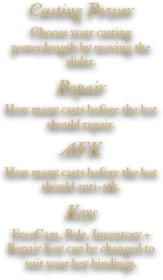
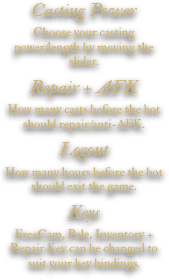
button hover, logout input, bait visual improved

diff --git a/fishingbot.py b/fishingbot.py
@@ -147,58 +147,141 @@ image_3 = canvas.create_image(
     image=image_image_3
 )
 
-button_image_1 = PhotoImage(
-    file=relative_to_assets("fishingbot/button_1.png"))
-button_1 = Button(
-    image=button_image_1,
+# ----- Bot Selection/Back Button - Button ----- #
+# -- Define the mouse enter and leave events
+def on_enter(e):
+    selection_button_image = PhotoImage(file=relative_to_assets("fishingbot/selection_button-active.png"))
+    selection_button.config(image=selection_button_image)
+    selection_button.image = selection_button_image
+
+def on_leave(e):
+    selection_button_image = PhotoImage(file=relative_to_assets("fishingbot/selection_button.png"))
+    selection_button.config(image=selection_button_image)
+    selection_button.image = selection_button_image
+
+# -- Create the button
+selection_button_image = PhotoImage(
+    file=relative_to_assets("fishingbot/selection_button.png"))
+selection_button = Button(
+    image=selection_button_image,
+    cursor="hand2",
     borderwidth=0,
     highlightthickness=0,
-    command=lambda: print("button_1 clicked"),
+    command=lambda: print("Bot Selection clicked"),
     relief="flat"
 )
-button_1.place(
+
+# -- Place the button
+selection_button.place(
     x=408.0,
     y=295.0,
     width=135.0,
     height=32.0
 )
 
-button_image_2 = PhotoImage(
-    file=relative_to_assets("fishingbot/button_2.png"))
-button_2 = Button(
-    image=button_image_2,
+# -- Bind the enter + leave events
+selection_button.bind("<Enter>", on_enter)
+selection_button.bind("<Leave>", on_leave)
+
+# ----- Start Bot Button - Button ----- #
+# -- Define the mouse enter and leave events
+def on_enter(e):
+    start_button_image = PhotoImage(file=relative_to_assets("fishingbot/start_button-active.png"))
+    start_button.config(image=start_button_image)
+    start_button.image = start_button_image
+
+def on_leave(e):
+    start_button_image = PhotoImage(file=relative_to_assets("fishingbot/start_button.png"))
+    start_button.config(image=start_button_image)
+    start_button.image = start_button_image
+
+# -- Create the button
+start_button_image = PhotoImage(
+    file=relative_to_assets("fishingbot/start_button.png"))
+start_button = Button(
+    image=start_button_image,
+    cursor="hand2",
     borderwidth=0,
     highlightthickness=0,
-    command=lambda: print("button_2 clicked"),
+    command=lambda: print("Start Button clicked"),
     relief="flat"
 )
-button_2.place(
+
+# -- Place the button
+start_button.place(
     x=332.0,
     y=336.0,
     width=135.0,
     height=32.0
 )
 
-button_image_3 = PhotoImage(
-    file=relative_to_assets("fishingbot/button_3.png"))
-button_3 = Button(
-    image=button_image_3,
+# -- Bind the enter + leave events
+start_button.bind("<Enter>", on_enter)
+start_button.bind("<Leave>", on_leave)
+
+# ----- Update Bot Button - Button ----- #
+# -- Define the mouse enter and leave events
+def on_enter(e):
+    update_button_image = PhotoImage(file=relative_to_assets("fishingbot/update_button-active.png"))
+    update_button.config(image=update_button_image)
+    update_button.image = update_button_image
+
+def on_leave(e):
+    update_button_image = PhotoImage(file=relative_to_assets("fishingbot/update_button.png"))
+    update_button.config(image=update_button_image)
+    update_button.image = update_button_image
+
+# -- Create the button
+update_button_image = PhotoImage(
+    file=relative_to_assets("fishingbot/update_button.png"))
+update_button = Button(
+    image=update_button_image,
+    cursor="hand2",
     borderwidth=0,
     highlightthickness=0,
-    command=lambda: print("button_3 clicked"),
+    command=lambda: print("Update Button clicked"),
     relief="flat"
 )
-button_3.place(
+
+# -- Place the button
+update_button.place(
     x=256.0,
     y=295.0,
     width=135.0,
     height=32.0
 )
 
+# -- Bind the enter + leave events
+update_button.bind("<Enter>", on_enter)
+update_button.bind("<Leave>", on_leave)
+
+entry_image_0 = PhotoImage(
+    file=relative_to_assets("fishingbot/entry_1.png"))
+entry_bg_0 = canvas.create_image(
+    467.0,
+    263.5,
+    image=entry_image_0
+)
+entry_0 = Entry(
+    bd=0,
+    bg="#28272E",
+    highlightthickness=0,
+    fg="#d5d5d5",
+    insertbackground="#d5d5d5",
+    justify='center',
+    font=("Montserrat Regular", 14 * -1)
+)
+entry_0.place(
+    x=420.0,
+    y=251.0,
+    width=94.0,
+    height=23.0
+)
+
 entry_image_1 = PhotoImage(
     file=relative_to_assets("fishingbot/entry_1.png"))
 entry_bg_1 = canvas.create_image(
-    400.0,
+    333.0,
     263.5,
     image=entry_image_1
 )
@@ -212,16 +295,24 @@ entry_1 = Entry(
     font=("Montserrat Regular", 14 * -1)
 )
 entry_1.place(
-    x=353.0,
+    x=286.0,
     y=251.0,
     width=94.0,
     height=23.0
 )
 
+logout_heading_image = PhotoImage(
+    file=relative_to_assets("fishingbot/logout_heading.png"))
+logout_heading = canvas.create_image(
+    467.0,
+    224.0,
+    image=logout_heading_image
+)
+
 image_image_4 = PhotoImage(
     file=relative_to_assets("fishingbot/image_4.png"))
 image_4 = canvas.create_image(
-    399.0,
+    332.0,
     224.0,
     image=image_image_4
 )
@@ -398,9 +489,9 @@ arrowsize=[('readonly','-1')])
 # -- List items for the bait combobox
 baits = ["No Bait", "Oytser Bait", "Clam Bait", "Meat Bait", "Firefly Bait", "Woodlouse Bait", "Bread Bait", 
 "Electric Eel Bait", "Snail Bait", "Fish Bait", "Glowworm Bait", "Nightcrawler Bait", "Cheese bait"]
-bait_list_combo = ttk.Combobox(window, values=baits, state="readonly", font="Montserrat 8", style='custom.TCombobox', cursor="hand2")
+bait_list_combo = ttk.Combobox(window, values=baits, state="readonly", font="Montserrat 10", style='custom.TCombobox', cursor="hand2")
 bait_list_combo.set("Choose a bait")
-bait_list_combo.place(x=214, y=98, width=105)
+bait_list_combo.place(x=209, y=96, width=110)
 
 
 image_image_10 = PhotoImage(
@@ -413,7 +504,7 @@ image_10 = canvas.create_image(
 
 # ----- Casting Power Input - Scale ----- #
 cast_power_input=Scale(window, from_=10, to=0, sliderrelief='flat', highlightthickness=0, 
-background='#28272E', fg='#D5D5D5', troughcolor='#68676C', activebackground='#D5D5D5', font="Montserrat 11", 
+background='#28272E', fg='#D5D5D5', troughcolor='#68676C', activebackground='#D5D5D5', font="Montserrat 10", 
 cursor="hand2")
 cast_power_input.place(x=130, y=85, width=38, height=280)
 
